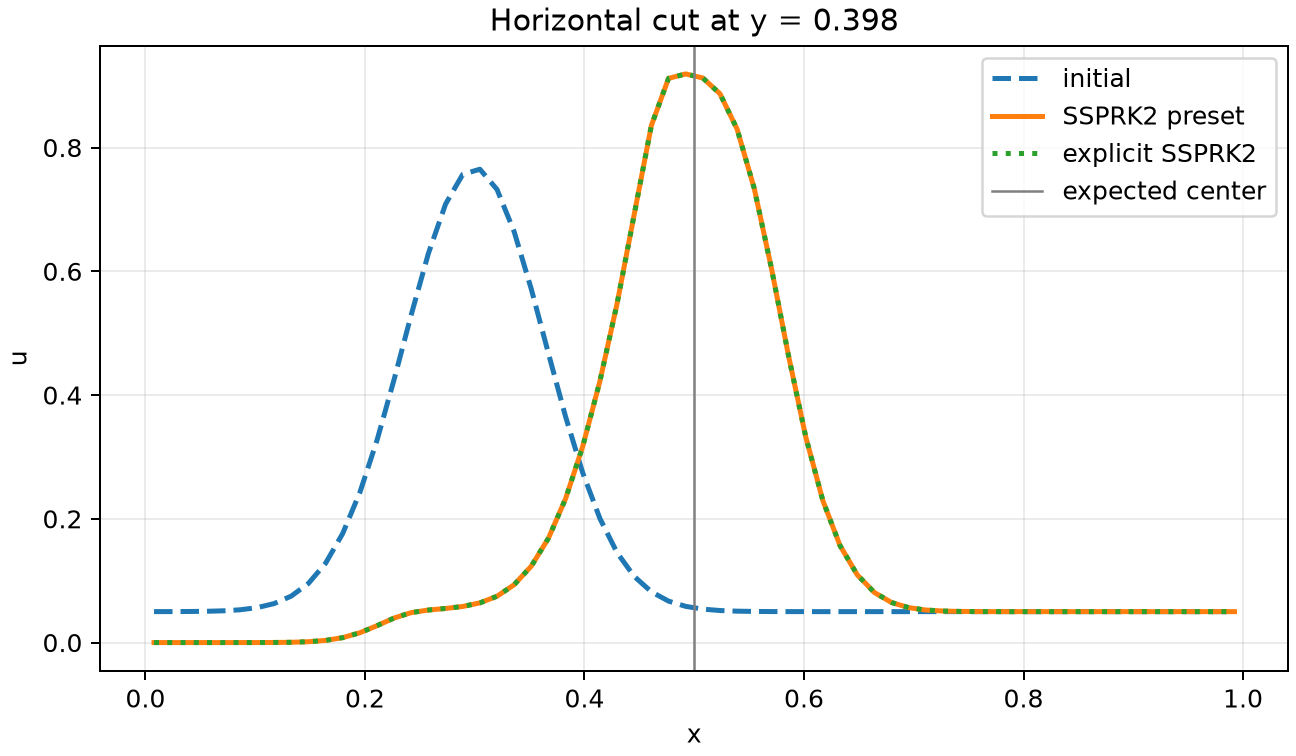
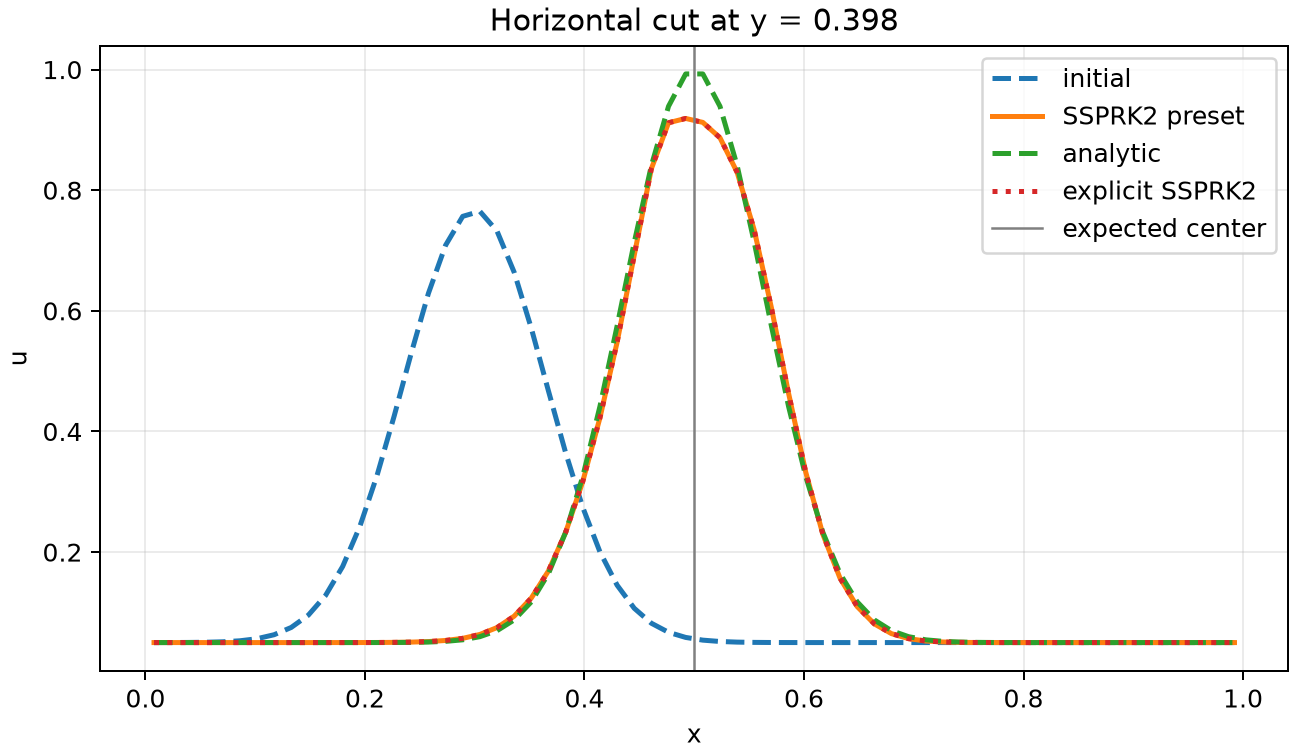
docs(tutorial): verify scalar advection analytically

diff --git a/docs/tuto/scalar_advection/plot_openmp_results.py b/docs/tuto/scalar_advection/plot_openmp_results.py
@@ -15,6 +15,7 @@ HERE = Path(__file__).resolve().parent
 LIBRARY_RESULT = HERE / "results" / "01_openmp_preset_ssprk2.npz"
 EXPLICIT_RESULT = HERE / "results" / "02_openmp_explicit_ssprk2.npz"
 FIGURE_DIR = HERE / "figures"
+RELATIVE_L2_TOLERANCE = 0.10
 
 if not LIBRARY_RESULT.is_file() or not EXPLICIT_RESULT.is_file():
     raise FileNotFoundError(
@@ -29,22 +30,87 @@ with np.load(LIBRARY_RESULT, allow_pickle=False) as data:
     ny = int(data["ny"])
     ax = float(data["ax"])
     ay = float(data["ay"])
+    far_field = float(data["far_field"])
+    gaussian_amplitude = float(data["gaussian_amplitude"])
+    gaussian_beta = float(data["gaussian_beta"])
+    gaussian_center_x = float(data["gaussian_center_x"])
+    gaussian_center_y = float(data["gaussian_center_y"])
     t_end = float(data["t_end"])
 
 with np.load(EXPLICIT_RESULT, allow_pickle=False) as data:
     explicit_final = np.asarray(data["final"], dtype=np.float64)[0]
+    explicit_metadata = {
+        name: float(data[name])
+        for name in (
+            "ax",
+            "ay",
+            "far_field",
+            "gaussian_amplitude",
+            "gaussian_beta",
+            "gaussian_center_x",
+            "gaussian_center_y",
+            "t_end",
+        )
+    }
 
 if initial.shape != (ny, nx) or library_final.shape != initial.shape:
     raise ValueError("the saved tutorial fields do not match the authored grid")
 if explicit_final.shape != library_final.shape:
     raise ValueError("the preset and explicit runs use different field layouts")
+reference_metadata = {
+    "ax": ax,
+    "ay": ay,
+    "far_field": far_field,
+    "gaussian_amplitude": gaussian_amplitude,
+    "gaussian_beta": gaussian_beta,
+    "gaussian_center_x": gaussian_center_x,
+    "gaussian_center_y": gaussian_center_y,
+    "t_end": t_end,
+}
+if explicit_metadata != reference_metadata:
+    raise ValueError("the preset and explicit runs describe different physical cases")
 
 difference = explicit_final - library_final
 max_difference = float(np.max(np.abs(difference)))
 
 x = (np.arange(nx, dtype=np.float64) + 0.5) / nx
 y = (np.arange(ny, dtype=np.float64) + 0.5) / ny
-expected_center = (0.30 + ax * t_end, 0.35 + ay * t_end)
+xx, yy = np.meshgrid(x, y, indexing="xy")
+departure_x = xx - ax * t_end
+departure_y = yy - ay * t_end
+inside_initial_domain = (
+    (departure_x >= 0.0)
+    & (departure_x <= 1.0)
+    & (departure_y >= 0.0)
+    & (departure_y <= 1.0)
+)
+analytic = np.full_like(library_final, far_field)
+analytic[inside_initial_domain] = (
+    far_field
+    + gaussian_amplitude
+    * np.exp(
+        -gaussian_beta
+        * (
+            (departure_x[inside_initial_domain] - gaussian_center_x) ** 2
+            + (departure_y[inside_initial_domain] - gaussian_center_y) ** 2
+        )
+    )
+)
+
+analytic_error = library_final - analytic
+cell_area = 1.0 / (nx * ny)
+l1_error = float(cell_area * np.sum(np.abs(analytic_error)))
+l2_error = float(np.sqrt(cell_area * np.sum(analytic_error**2)))
+linf_error = float(np.max(np.abs(analytic_error)))
+analytic_perturbation_l2 = float(
+    np.sqrt(cell_area * np.sum((analytic - far_field) ** 2))
+)
+relative_l2_error = l2_error / analytic_perturbation_l2
+
+expected_center = (
+    gaussian_center_x + ax * t_end,
+    gaussian_center_y + ay * t_end,
+)
 cut_index = int(np.argmin(np.abs(y - expected_center[1])))
 
 FIGURE_DIR.mkdir(parents=True, exist_ok=True)
@@ -97,6 +163,7 @@ plt.close(figure)
 figure, axis = plt.subplots(figsize=(7.2, 4.2), constrained_layout=True)
 axis.plot(x, initial[cut_index], "--", linewidth=2.0, label="initial")
 axis.plot(x, library_final[cut_index], linewidth=2.0, label="SSPRK2 preset")
+axis.plot(x, analytic[cut_index], "--", linewidth=2.0, label="analytic")
 axis.plot(
     x,
     explicit_final[cut_index],
@@ -115,6 +182,87 @@ cut_figure = FIGURE_DIR / "scalar_advection_cut.png"
 figure.savefig(cut_figure, dpi=180)
 plt.close(figure)
 
+figure, axes = plt.subplots(2, 2, figsize=(10.4, 8.0), constrained_layout=True)
+field_limits = (float(analytic.min()), float(analytic.max()))
+
+numerical_image = axes[0, 0].imshow(
+    library_final,
+    origin="lower",
+    extent=(0.0, 1.0, 0.0, 1.0),
+    vmin=field_limits[0],
+    vmax=field_limits[1],
+    cmap="viridis",
+)
+axes[0, 0].set_title("PoPS at t = %.2f" % t_end)
+
+axes[0, 1].imshow(
+    analytic,
+    origin="lower",
+    extent=(0.0, 1.0, 0.0, 1.0),
+    vmin=field_limits[0],
+    vmax=field_limits[1],
+    cmap="viridis",
+)
+axes[0, 1].set_title("Analytic solution")
+
+error_image = axes[1, 0].imshow(
+    np.abs(analytic_error),
+    origin="lower",
+    extent=(0.0, 1.0, 0.0, 1.0),
+    vmin=0.0,
+    cmap="magma",
+)
+axes[1, 0].set_title(
+    "Absolute error\n"
+    r"$L_1=%.2e,\ L_2=%.2e,\ L_\infty=%.2e$"
+    % (l1_error, l2_error, linf_error)
+)
+
+axes[1, 1].plot(
+    x,
+    analytic[cut_index],
+    "--",
+    linewidth=2.2,
+    label="analytic",
+)
+axes[1, 1].plot(
+    x,
+    library_final[cut_index],
+    linewidth=2.0,
+    label="PoPS",
+)
+axes[1, 1].set_title(
+    "Cut at y = %.3f\nrelative L2 = %.2e" % (
+        y[cut_index],
+        relative_l2_error,
+    )
+)
+axes[1, 1].set_ylabel("u")
+axes[1, 1].grid(alpha=0.25)
+axes[1, 1].legend()
+
+for axis in axes.flat:
+    axis.set_xlabel("x")
+for axis in axes[:, 0]:
+    axis.set_ylabel("y")
+figure.colorbar(numerical_image, ax=axes[0, :], shrink=0.86, label="u")
+figure.colorbar(error_image, ax=axes[1, 0], shrink=0.86, label="|PoPS - analytic|")
+
+analytic_figure = FIGURE_DIR / "scalar_advection_analytic_verification.png"
+figure.savefig(analytic_figure, dpi=180)
+plt.close(figure)
+
 print("wrote %s" % field_figure)
 print("wrote %s" % cut_figure)
+print("wrote %s" % analytic_figure)
 print("max |explicit - preset| = %.16e" % max_difference)
+print("analytic L1 error        = %.16e" % l1_error)
+print("analytic L2 error        = %.16e" % l2_error)
+print("analytic Linf error      = %.16e" % linf_error)
+print("analytic relative L2     = %.16e" % relative_l2_error)
+
+if relative_l2_error > RELATIVE_L2_TOLERANCE:
+    raise RuntimeError(
+        "analytic verification failed: relative L2 %.6e exceeds %.6e"
+        % (relative_l2_error, RELATIVE_L2_TOLERANCE)
+    )

diff --git a/docs/tuto/scalar_advection/01_openmp_preset_ssprk2.py b/docs/tuto/scalar_advection/01_openmp_preset_ssprk2.py
@@ -40,6 +40,10 @@ NY = 64
 AX = 1.0
 AY = 0.25
 FAR_FIELD = 0.05
+GAUSSIAN_AMPLITUDE = 0.95
+GAUSSIAN_BETA = 120.0
+GAUSSIAN_CENTER_X = 0.30
+GAUSSIAN_CENTER_Y = 0.35
 CFL = 0.45
 MAX_DT = 1.0e-2
 T_END = 0.20
@@ -134,8 +138,11 @@ x = (np.arange(NX, dtype=np.float64) + 0.5) / NX
 y = (np.arange(NY, dtype=np.float64) + 0.5) / NY
 xx, yy = np.meshgrid(x, y, indexing="xy")
 
-initial_u = FAR_FIELD + 0.95 * np.exp(
-    -120.0 * ((xx - 0.30) ** 2 + (yy - 0.35) ** 2)
+initial_u = FAR_FIELD + GAUSSIAN_AMPLITUDE * np.exp(
+    -GAUSSIAN_BETA * (
+        (xx - GAUSSIAN_CENTER_X) ** 2
+        + (yy - GAUSSIAN_CENTER_Y) ** 2
+    )
 )
 initial_state = np.ascontiguousarray(initial_u[np.newaxis, :, :], dtype=np.float64)
 
@@ -172,6 +179,11 @@ np.savez_compressed(
     ny=NY,
     ax=AX,
     ay=AY,
+    far_field=FAR_FIELD,
+    gaussian_amplitude=GAUSSIAN_AMPLITUDE,
+    gaussian_beta=GAUSSIAN_BETA,
+    gaussian_center_x=GAUSSIAN_CENTER_X,
+    gaussian_center_y=GAUSSIAN_CENTER_Y,
     cfl=CFL,
     t_end=T_END,
 )

diff --git a/docs/tuto/scalar_advection/02_openmp_explicit_ssprk2.py b/docs/tuto/scalar_advection/02_openmp_explicit_ssprk2.py
@@ -38,6 +38,10 @@ NY = 64
 AX = 1.0
 AY = 0.25
 FAR_FIELD = 0.05
+GAUSSIAN_AMPLITUDE = 0.95
+GAUSSIAN_BETA = 120.0
+GAUSSIAN_CENTER_X = 0.30
+GAUSSIAN_CENTER_Y = 0.35
 CFL = 0.45
 MAX_DT = 1.0e-2
 T_END = 0.20
@@ -165,8 +169,11 @@ x = (np.arange(NX, dtype=np.float64) + 0.5) / NX
 y = (np.arange(NY, dtype=np.float64) + 0.5) / NY
 xx, yy = np.meshgrid(x, y, indexing="xy")
 
-initial_u = FAR_FIELD + 0.95 * np.exp(
-    -120.0 * ((xx - 0.30) ** 2 + (yy - 0.35) ** 2)
+initial_u = FAR_FIELD + GAUSSIAN_AMPLITUDE * np.exp(
+    -GAUSSIAN_BETA * (
+        (xx - GAUSSIAN_CENTER_X) ** 2
+        + (yy - GAUSSIAN_CENTER_Y) ** 2
+    )
 )
 initial_state = np.ascontiguousarray(initial_u[np.newaxis, :, :], dtype=np.float64)
 
@@ -201,6 +208,11 @@ np.savez_compressed(
     ny=NY,
     ax=AX,
     ay=AY,
+    far_field=FAR_FIELD,
+    gaussian_amplitude=GAUSSIAN_AMPLITUDE,
+    gaussian_beta=GAUSSIAN_BETA,
+    gaussian_center_x=GAUSSIAN_CENTER_X,
+    gaussian_center_y=GAUSSIAN_CENTER_Y,
     cfl=CFL,
     t_end=T_END,
 )

diff --git a/docs/tuto/scalar_advection/README.md b/docs/tuto/scalar_advection/README.md
@@ -670,7 +670,17 @@ python docs/tuto/scalar_advection/13_openmp_amr_restart.py
 Le checkpoint est ecrit sous
 `docs/tuto/scalar_advection/results/13_openmp_amr_restart/`.
 
-## Figures generees
+## Verification par la solution analytique
+
+Pour une vitesse constante, la solution se calcule exactement en remontant les caracteristiques :
+
+```math
+u(x,y,t)=u_0(x-a_x t,y-a_y t).
+```
+
+Quand le pied de la caracteristique sort du carre unite par une face entrante, la valeur exacte est
+le fond impose `FAR_FIELD`. Les scripts enregistrent les parametres de la gaussienne et le script de
+trace reconstruit cette solution analytique aux memes centres de cellules que la solution PoPS.
 
 Apres les deux simulations OpenMP :
 
@@ -678,8 +688,23 @@ Apres les deux simulations OpenMP :
 python docs/tuto/scalar_advection/plot_openmp_results.py
 ```
 
-La premiere figure compare les deux executions OpenMP : condition initiale, solution advectee et
-difference entre les deux ecritures de SSPRK2.
+Le script calcule les erreurs ponderees par l'aire des cellules :
+
+```math
+\|e\|_1=\sum_{ij}|e_{ij}|\,\Delta x\Delta y,\qquad
+\|e\|_2=\left(\sum_{ij}e_{ij}^2\,\Delta x\Delta y\right)^{1/2},\qquad
+\|e\|_\infty=\max_{ij}|e_{ij}|.
+```
+
+Il verifie aussi que l'erreur L2 relative a la perturbation gaussienne reste inferieure a `0.10`.
+La figure principale montre directement le champ PoPS, la solution analytique, l'erreur absolue et
+une coupe superposee :
+
+![PoPS compared with the analytic scalar-advection solution](figures/scalar_advection_analytic_verification.png)
+
+Les deux figures historiques restent utiles pour verifier que les deux ecritures de SSPRK2 sont
+strictement equivalentes. La premiere compare condition initiale, solution advectee et difference
+entre les deux programmes temporels.
 
 ![Initial state, final state and SSPRK2 parity](figures/scalar_advection_fields.png)
 